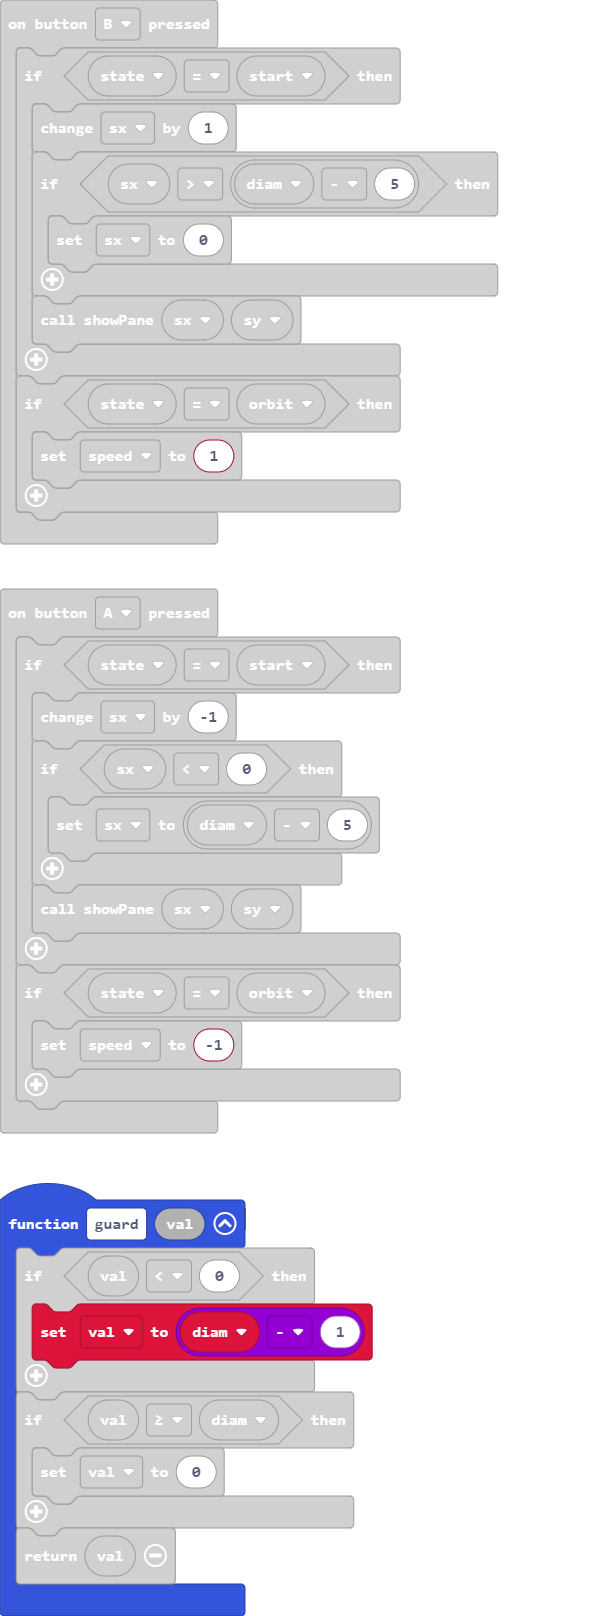
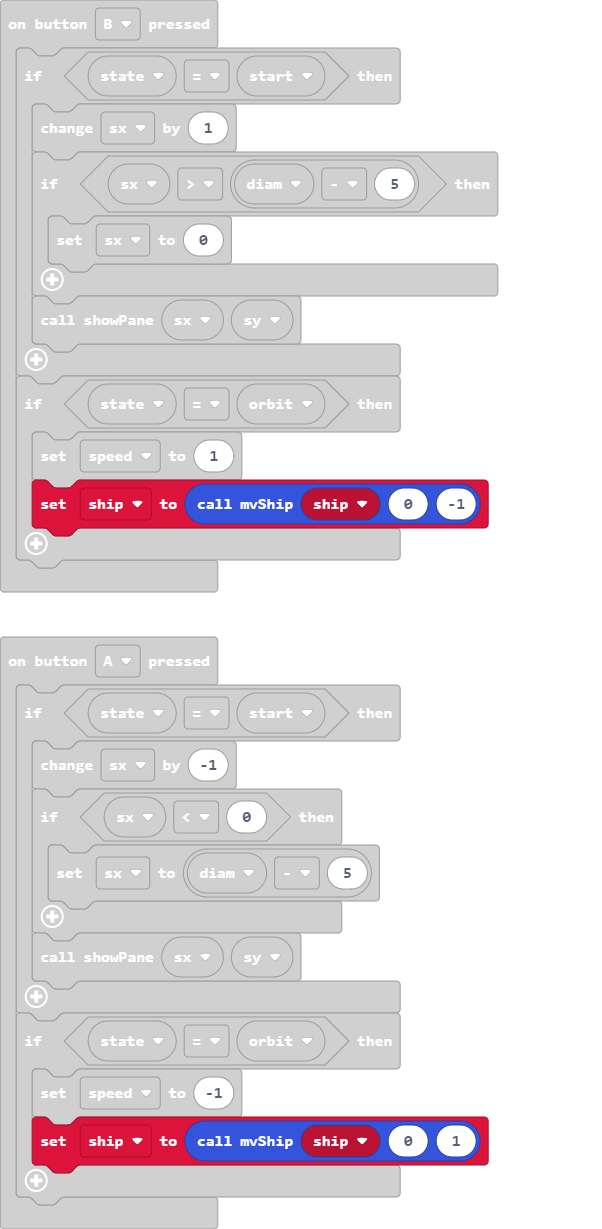
Update main.blocks, main.ts

diff --git a/main.ts b/main.ts
@@ -23,6 +23,7 @@ input.onButtonPressed(Button.A, function () {
     }
     if (state == orbit) {
         speed = -1
+        ship = mvShip(ship, 0, 1)
     }
 })
 function clrship (shp: any[]) {
@@ -70,6 +71,7 @@ input.onButtonPressed(Button.B, function () {
     }
     if (state == orbit) {
         speed = 1
+        ship = mvShip(ship, 0, -1)
     }
 })
 function setXY (x: number, y: number, val: number) {
@@ -101,8 +103,8 @@ function mvShip (veh: any[], xd: number, yd: number) {
     return veh
 }
 let cosmos: number[] = []
-let ship: any[] = []
 let val = 0
+let ship: any[] = []
 let stgs: any = null
 let ay: any = null
 let ax: any = null
